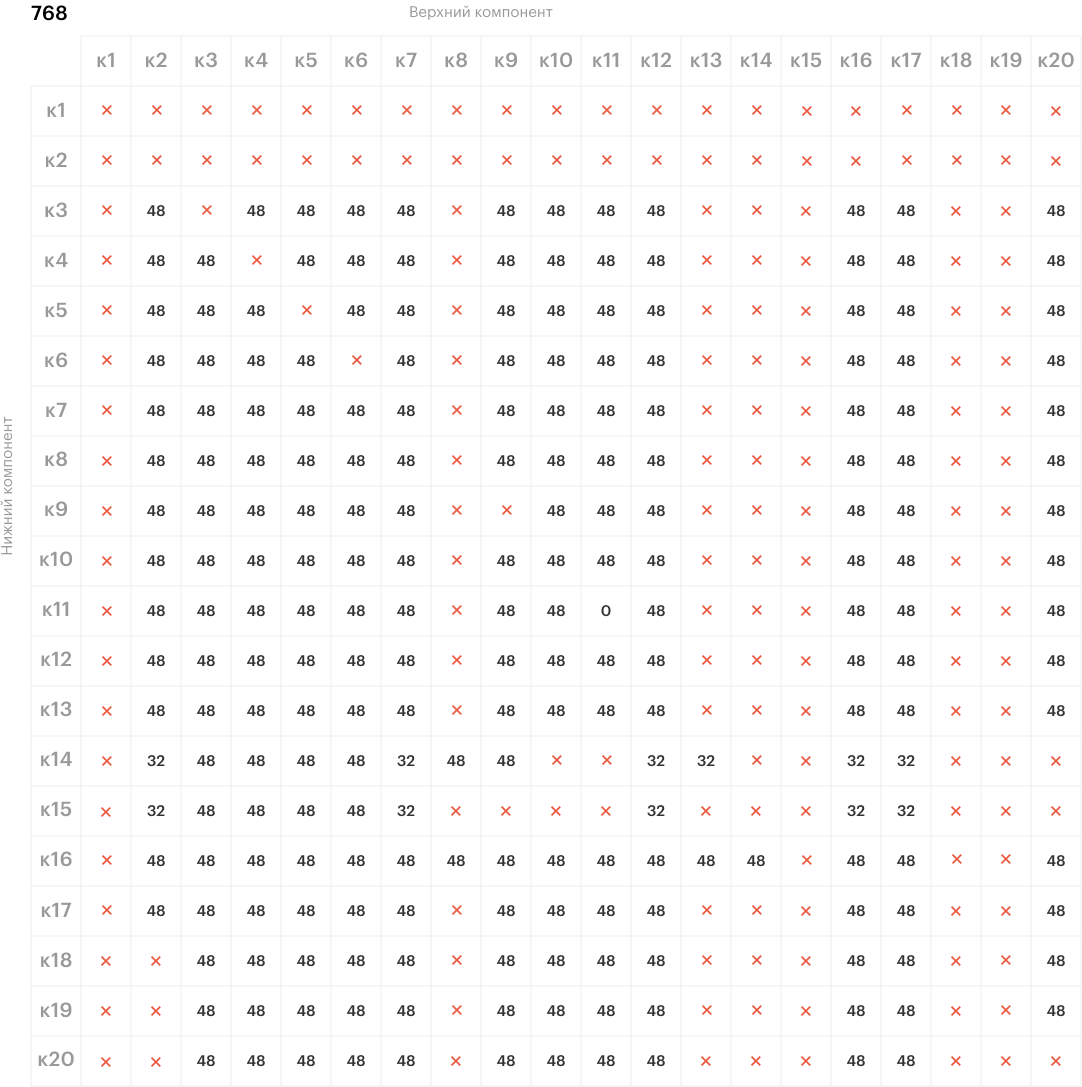
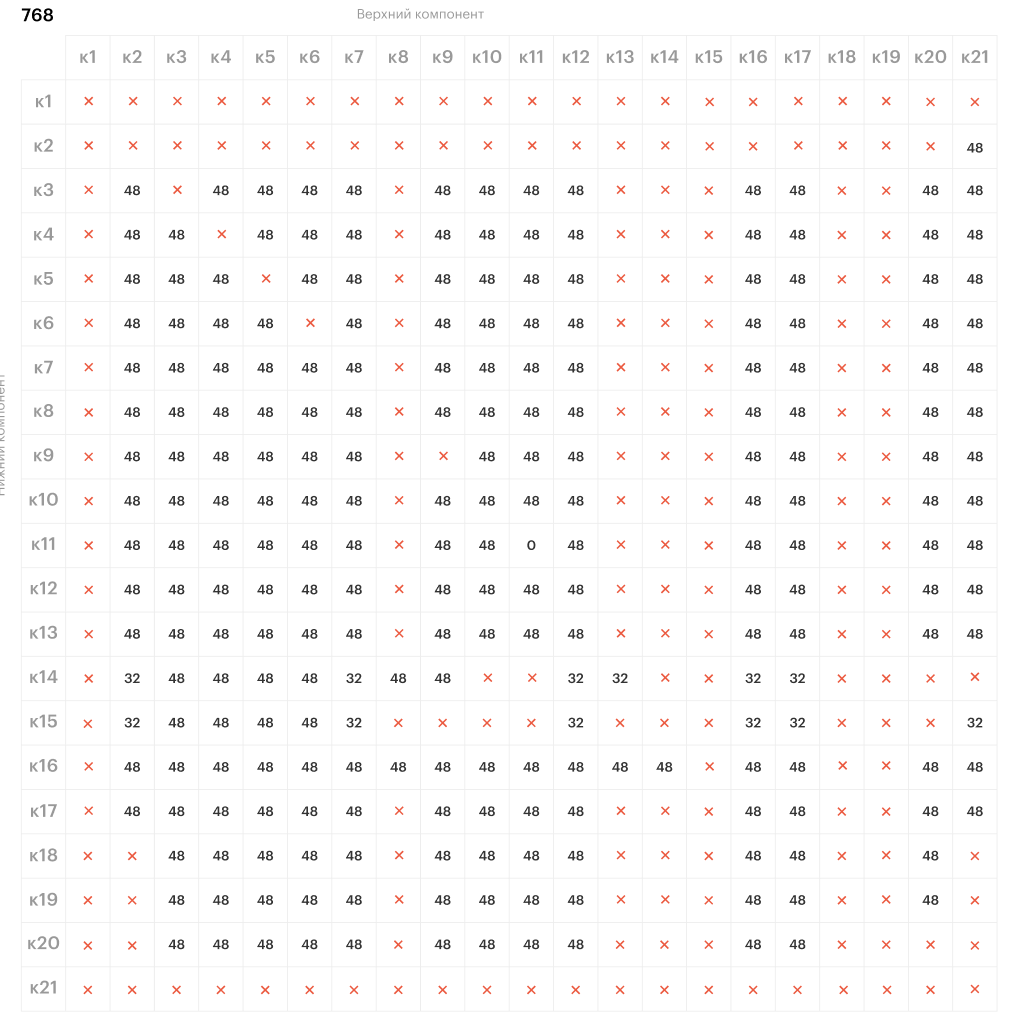
docs(container): add new component

diff --git a/packages/ui-shared/src/components/Container/Container.less b/packages/ui-shared/src/components/Container/Container.less
@@ -21,7 +21,8 @@
 @k18: e('.mfui-beta-store-banner');
 @k19: e('.mfui-beta-button-banner');
 @k20: e('.mfui-beta-steps');
-@components: @k1, @k2, @k3, @k4, @k5, @k6, @k7, @k8, @k9, @k10, @k11, @k12, @k13, @k14, @k15, @k16, @k17, @k18, @k19, @k20;
+@k21: e('.mfui-beta-page-title');
+@components: @k1, @k2, @k3, @k4, @k5, @k6, @k7, @k8, @k9, @k10, @k11, @k12, @k13, @k14, @k15, @k16, @k17, @k18, @k19, @k20, @k21;
 
 @color-modificator: e('&_bg-color_');
 @color-default: e('default');
@@ -406,5 +407,24 @@
 
     @media @mobileSM {
         .generateComponentsMargins(@medium, @k20, 3, 19);
+    }
+
+    // k21(page-title)
+    .generateComponentsMargins(@large, @k21, 2, 17);
+
+    @media @mobileB {
+        .generateComponentsMargins(@big, @k21, 2, 17);
+    }
+
+    @media @mobileSM {
+        .generateComponentsMargins(@medium, @k21, 2, 17);
+    }
+
+    @{k21} + @{k15} {
+        margin-top: @small;
+    }
+
+    @{k21} + @{k14} {
+        .disableMarginTop();
     }
 }
